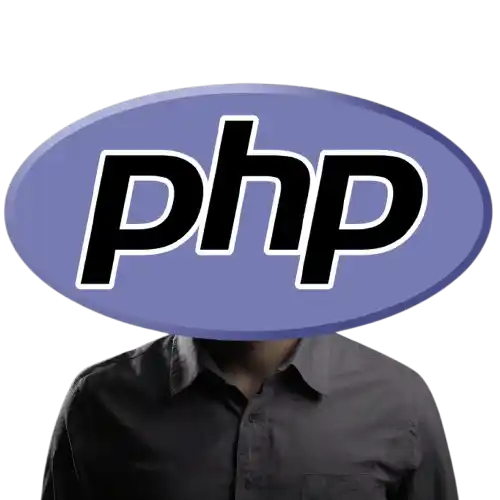
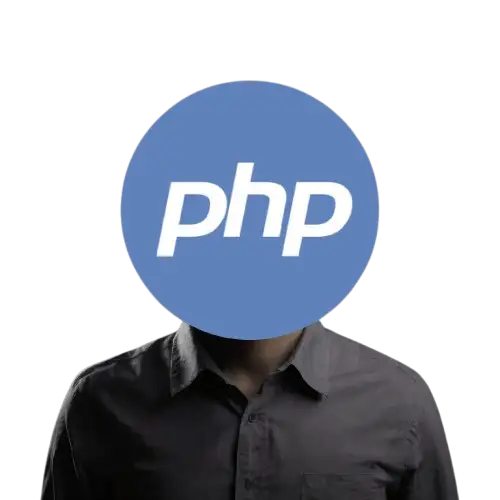
New game images w/ his hints & surrender txts

diff --git a/src/i18n/ui.ts b/src/i18n/ui.ts
@@ -36,11 +36,15 @@ export const ui = {
     'game.miduHelpTxt':
       'Activa la miduAyuda para obtener una pista de donde está',
     'game.miduHelpTxt.midu':
-      'Midu se encuentra en un lugar seguro, donde nadie lo puede ver, acompañado de miduGato y su framework favorito.',
-    'game.miduHelpTxt.altman': 'Altman está en...',
-    'game.miduHelpTxt.php': 'PHP está en...',
-    'game.miduHelpTxt.gaga': 'Gaga está en...',
-    'game.miduHelpTxt.colby': 'Colby está en...',
+      'Midu se encuentra en un lugar seguro, observando la batalla desde su setup junto a miduGato y su framework favorito.',
+    'game.miduHelpTxt.altman':
+      'Altman sigue de muy cerca la charla, al acecho de conseguir su sueño',
+    'game.miduHelpTxt.php':
+      'PHP está en junto a su gran tumba, pero se resiste a entrar en ella.',
+    'game.miduHelpTxt.gaga':
+      'Lady Gaga está descansando apartada de la multitud en su castillo de vampira con vistas al mar.',
+    'game.miduHelpTxt.colby':
+      'Colby está siendo engullido por un participante que no consiguió resolver su duda.',
 
     'game.cloudinaryHelp.title': 'La Cloudinary ayuda',
     'game.miduHelp.title': 'La MiduAyuda',
@@ -49,10 +53,13 @@ export const ui = {
 
     'game.surrenderTxt.midu':
       'Me rindo... Dejaré morir a Midu y que se lo coman en X',
-    'game.surrenderTxt.altman': 'Me rindo...(Altman)',
-    'game.surrenderTxt.php': 'Me rindo... (PHP)',
-    'game.surrenderTxt.gaga': 'Me rindo... (Gaga)',
-    'game.surrenderTxt.colby': 'Me rindo... (Colby)',
+    'game.surrenderTxt.altman': 'Me rindo...Dejar que Altman se vaya al paro',
+    'game.surrenderTxt.php':
+      'Me rindo... Dejaré que PHP muere dejando su gran legado',
+    'game.surrenderTxt.gaga':
+      'Me rindo... No encuentra la enésima tranformación de Lady Gaga',
+    'game.surrenderTxt.colby':
+      'Me rindo... Dejar que Colby muera por no descansar durante la Hackatón',
     'game.surrenderBtn': 'Resolver',
 
     'game.helps.cloudinary1': '- ¡La',
@@ -93,11 +100,15 @@ export const ui = {
     'game.info.3': 'and mark the approximate location with the right button.',
     'game.miduHelpTxt': 'Activate MiduHelp to get a hint about where he is',
     'game.miduHelpTxt.midu':
-      'Midu is in a safe place where no one can see him, accompanied by miduGato and his favorite framework.',
-    'game.miduHelpTxt.altman': 'Altman is in...',
-    'game.miduHelpTxt.php': 'PHP is in...',
-    'game.miduHelpTxt.gaga': 'Gaga is in...',
-    'game.miduHelpTxt.colby': 'Colby is in...',
+      'Midu is in a safe place, watching the battle from his setup alongside miduGato and his favorite framework.',
+    'game.miduHelpTxt.altman':
+      'Altman closely follows the talk, on the lookout to achieve his dream.',
+    'game.miduHelpTxt.php':
+      'PHP is standing next to its large grave, but refuses to enter it.',
+    'game.miduHelpTxt.gaga':
+      'Lady Gaga is resting away from the crowd in her vampire castle overlooking the sea.',
+    'game.miduHelpTxt.colby':
+      "Colby is being swallowed by a participant who couldn't solve their question.",
 
     'game.cloudinaryHelp.title': 'The Cloudinary help',
     'game.miduHelp.title': 'The MiduHelp',
@@ -106,10 +117,13 @@ export const ui = {
 
     'game.surrenderTxt.midu':
       'I give up... I will let Midu die and be eaten in X',
-    'game.surrenderTxt.altman': 'I give up...(Altman)',
-    'game.surrenderTxt.php': 'I give up... (PHP)',
-    'game.surrenderTxt.gaga': 'I give up... (Gaga)',
-    'game.surrenderTxt.colby': 'I give up... (Colby)',
+    'game.surrenderTxt.altman': 'I give up... Let Altman go on unemployment.',
+    'game.surrenderTxt.php':
+      'I give up... I will let PHP die, leaving behind its great legacy',
+    'game.surrenderTxt.gaga':
+      "I give up... It can't find Lady Gaga's umpteenth transformation.",
+    'game.surrenderTxt.colby':
+      'I give up... Let Colby die from not resting during the Hackathon.',
     'game.surrenderBtn': 'Resolve',
 
     'game.helps.cloudinary1': '- The',

diff --git a/src/data/gameProps.ts b/src/data/gameProps.ts
@@ -6,32 +6,32 @@ export function gameProps(lang: PageLanguages, character: Character) {
 
   const gamePropsInfo: Record<Character, GameProps> = {
     Midudev: {
-      imgStringId: 'qfcwvkcfpdxcom1nb1d9',
-      positionAnswers: { x: 687.1609014001452, y: 751.9959950962743 },
+      imgStringId: 'p4ycfe6jpiddv269ercf',
+      positionAnswers: { x: 1108.885342744734, y: 191.29497813100062 },
       miduHelpTxt: t('game.miduHelpTxt.midu'),
       surrenderTxt: t('game.surrenderTxt.midu'),
     },
     Altman: {
-      imgStringId: 'ejp3m8ha77kktxhnsdu4',
-      positionAnswers: { x: 123, y: 456 },
+      imgStringId: 'x2k5fyp96c3il7tevhgb',
+      positionAnswers: { x: 553.5874517882188, y: 904.2516668444634 },
       miduHelpTxt: t('game.miduHelpTxt.altman'),
       surrenderTxt: t('game.surrenderTxt.altman'),
     },
     PHP: {
-      imgStringId: 'gzy8tlrfjbygy7aw5mmm',
-      positionAnswers: { x: 123, y: 456 },
+      imgStringId: 'igsclbcucvcrlwurlnye',
+      positionAnswers: { x: 535.5236048419966, y: 440.41467089822913 },
       miduHelpTxt: t('game.miduHelpTxt.php'),
       surrenderTxt: t('game.surrenderTxt.php'),
     },
     Lady_Gaga: {
-      imgStringId: 'ow5wyljx6yxkrxacow1b',
-      positionAnswers: { x: 123, y: 456 },
+      imgStringId: 'gadpdqbnltidlmmpqpf3',
+      positionAnswers: { x: 82.84699897315167, y: 701.7238238745466 },
       miduHelpTxt: t('game.miduHelpTxt.gaga'),
       surrenderTxt: t('game.surrenderTxt.gaga'),
     },
     Colby: {
-      imgStringId: 'ow5wyljx6yxkrxacow1b',
-      positionAnswers: { x: 123, y: 456 },
+      imgStringId: 'ebhegso1cpnhbjxitxvh',
+      positionAnswers: { x: 1036.2567134537428, y: 870.600790146545 },
       miduHelpTxt: t('game.miduHelpTxt.colby'),
       surrenderTxt: t('game.surrenderTxt.colby'),
     },

diff --git a/src/components/Game.tsx b/src/components/Game.tsx
@@ -199,6 +199,14 @@ const Game = ({
             x: x * scaleX,
             y: y * scaleY,
           }
+          console.log('MARKER', markerPositionRef.current)
+          console.log('RECT', rect)
+          console.log('CANVAS', canvas)
+          console.log(
+            'result',
+            markerPositionRef.current.x - rect.x,
+            markerPositionRef.current.y - rect.y
+          )
         }
       }
     }
